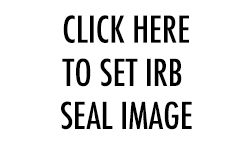
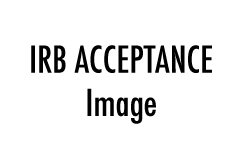
fixed several style changes and the default IRB image.

Changed region(s): [[0.112, 0.08, 0.868, 0.88]]

diff --git a/app/assets/stylesheets/sites.css.scss b/app/assets/stylesheets/sites.css.scss
@@ -7,20 +7,41 @@
 }
 
 .register form.new_user {
-  max-width: 700px;
+  padding-left: 50px;
   margin: 0 auto;
-}
+  max-width: 95%;
 
-.register form h3 {
-  color: #fff;
-  font-size: 40px;
-  font-weight: 300;
-  margin-bottom: 20px;
+  label, p {
+    font-size: 1.25em;
+    line-height: 1.25em;
+  }
+
+  input {
+    line-height: 2em;
+    font-size: 1.5em;
+  }
+
+  #user_phone {
+    width: 20%;
+  }
+
+  #user_email {
+    width: 40%;
+  }
+
+
 }
 
 .register form {
   color: #fff;
-  font-size: 16px;
+  line-height: 1.25em;
+
+  h3 {
+    color: #fff;
+    font-size: 40px;
+    font-weight: 300;
+    margin-bottom: 20px;
+  }
 }
 
 .control-group {
@@ -105,18 +126,6 @@
   font-size: 16px;
 }
 
-#loginModal {
-  background-color: #3ac29c;
-  color: #fff;
-}
-
-#loginModal h3 {
-
-  font-size: 40px;
-  font-weight: 300;
-  margin-bottom: 20px;
-}
-
 .banner .col-sm-3 .app-store-button-wrapper {
   -webkit-box-shadow: 1px 1px 45px 1px rgba(255, 255, 255, 0.34);
 }
@@ -135,18 +144,68 @@
   border-radius: 5px;
 }
 
-#header #loginModal {
-  padding: 0px;
-}
-
 #header .modal-body .controls input {
   color: #000000;
 }
 
-#header .modal.custom {
-  max-height: 400px;
+#header .modal-body .controls input#user_password,
+#header .modal-body .controls input#user_email {
+  color: #000000;
+  width: 70%;
+  height: 3em;
+  font-size: 2em;
+  background-color: #fff;
 }
 
 section#intervention form {
   color: #000;
 }
+
+#header .modal.custom {
+  max-height: 60%;
+  max-width: 70%;
+}
+
+.modal.custom {
+  width:50%;
+  margin:15% auto 0;
+  background: rgba(255, 255, 255, 0.75);
+  overflow: hidden;
+  border-radius: 15px;
+  max-height: 50%;
+}
+
+.modal.custom.large-modal {
+  margin:15% auto 0;
+  background: rgba(255, 255, 255, 0.90);
+  border-radius: 15px;
+  max-height: 80%;
+  width: 80%;
+  overflow: auto;
+}
+
+#header #loginModal {
+  padding: 0px;
+  background: rgba(255, 255, 255, 0.90);
+
+  h3 {
+    font-size: 2.5em;
+    font-weight: 300;
+    margin-bottom: 20px;
+  }
+
+  .control-label {
+    font-size: 2em;
+    padding-bottom: 5px;
+  }
+
+  .user_remember_me {
+    font-size: 2em;
+    padding-bottom: 5px;
+  }
+
+  .modal-header .user_email input:-webkit-autofill {
+    background-color: #fff;
+  }
+}
+

diff --git a/app/assets/stylesheets/pages.css.scss b/app/assets/stylesheets/pages.css.scss
@@ -2,24 +2,6 @@
 // They will automatically be included in application.css.
 // You can use Sass (SCSS) here: http://sass-lang.com/
 
-.modal.custom {
-  width:30%;
-  margin:15% auto 0;
-  background: rgba(255, 255, 255, 0.75);
-  overflow: hidden;
-  border-radius: 15px;
-  max-height: 50%;
-}
-
-.modal.custom.large-modal {
-  margin:15% auto 0;
-  background: rgba(255, 255, 255, 0.90);
-  border-radius: 15px;
-  max-height: 80%;
-  width: 80%;
-  overflow: auto;
-}
-
 .header.red-ribbon {
   background-image: image-url('red_ribbon_crop.jpg');
 
